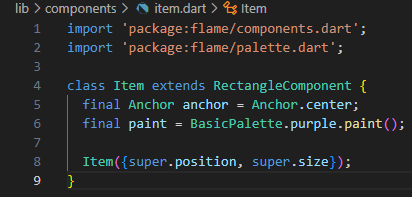
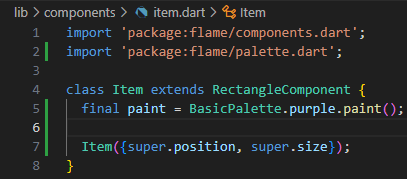
feat: update pictures and text for sprint 2 week 2 blog

diff --git a/pages/ppl-sprint2-week1.html b/pages/ppl-sprint2-week1.html
@@ -40,10 +40,10 @@
                 <li><b>Act:</b> mensimulasikan behavior yang diinginkan pada objek-objek</li>
                 <li><b>Assert:</b> memeriksa apakah behavior memberikan hasil atau efek yang sesuai ekspektasi</li>
             </ul>
-            <p>Dalam gambar di atas, tahap arrange dan act dilakukan pada baris 12 (karena test hanya mengecek kondisi awal), sedangkan tahap assert dilakukan pada baris 13-15 (biasanya dengan method expect atau serupa).</p>
+            <p>Dalam gambar di atas, tahap arrange dilakukan pada baris 12, tahap act dilakukan pada baris 13-14, sedangkan tahap assert dilakukan pada baris 15-18 (biasanya dengan method expect, query, dan lain-lain).</p>
             <h4>3. GREEN: Menulis kode untuk membuat test berhasil</h4>
             <p>Pada tahap ini kita membuat test yang sudah dibuat sebelumnya dari gagal menjadi berhasil alias berwarna hijau. Caranya adalah dengan membuat kode implementasi. Perlu diingat bahwa kita ingin membuat kode seminimal mungkin, sehingga kita tidak perlu berpikir terlalu jauh ke depan saat menulis kode. Yang penting adalah test berhasil terlebih dulu.</p>
-            <p>Sebagai contoh, untuk membuat test di atas berhasil, saya cukup menambahkan import, membuat class ItemContainer dan Item yang masih kosong, dan menambahkan objek sesuai jumlah yang diinginkan pada component game.</p>
+            <p>Sebagai contoh, untuk membuat test di atas berhasil, saya cukup menambahkan import, membuat class ItemContainer dan Item, dan menambahkan objek sesuai jumlah yang diinginkan pada component game.</p>
             <div class="text-center"><img src="../images/ppl-sprint2-week1-import.png"></div><br>
             <div class="text-center"><img src="../images/ppl-sprint2-week1-itemcontainer-bare.png"></div><br>
             <div class="text-center"><img src="../images/ppl-sprint2-week1-item-bare.png"></div><br>
@@ -52,15 +52,13 @@
             <div class="text-center"><img src="../images/ppl-sprint2-week1-test-green.png"></div><br>
             <h4>4. REFACTOR: Mengubah struktur kode dengan tetap menjaga (semua) test berhasil</h4>
             <p>Sekarang test sudah berhasil, namun tetap ada hal yang harus dipertimbangkan. Penambahan kode yang seadanya pada tahap sebelumnya bisa jadi menimbulkan code smell atau malah membuat test lainnya menjadi gagal. Ingat bahwa TDD adalah software design practice, sehingga refactoring perlu dilakukan untuk menjaga kualitas kode tetap baik setelah setiap penambahan test. Refactoring ini dapat berlaku untuk kode implementasi maupun testing.</p>
-            <p>Refactoring juga dapat dilakukan untuk alasan lain. Misalnya ketika saya menjalankan kode yang dibuat tadi, kotak dan objeknya tidak terlihat.</p>
-            <div class="text-center"><img src="../images/ppl-sprint2-week1-run-bare.png"></div><br>
-            <p>Ini tentu saja karena class ItemContainer dan Item masih kosong. Untuk menampilkan mereka, saya tambahkan atribut size, position, anchor, dan paint dengan parameter sembarang.</p>
+            <p>Refactoring juga dapat dilakukan untuk alasan lain. Misalnya ketika saya menjalankan kode yang dibuat tadi, kotak dan objeknya tidak terlihat. Ini tentu saja karena class ItemContainer dan Item masih kosong. Untuk menampilkan mereka, saya tambahkan atribut size, anchor, dan paint dengan parameter yang didapat melalui trial and error.</p>
             <div class="text-center"><img src="../images/ppl-sprint2-week1-itemcontainer-refactored.png"></div><br>
             <div class="text-center"><img src="../images/ppl-sprint2-week1-item-refactored.png"></div><br>
             <div class="text-center"><img src="../images/ppl-sprint2-week1-add-refactored.png"></div><br>
             <p>Sekarang sudah terlihat :D</p>
             <div class="text-center"><img src="../images/ppl-sprint2-week1-run-refactored.png"></div><br>
-            <p>Sampai bagian ini, masih ada banyak refactoring yang perlu saya lakukan, seperti: menampilkan gambar/sprite yang sesuai, mengatur letak gambar dan proporsinya terhadap layar, dan memindahkan mereka ke dalam component khusus game 2 (saat ini belum ada, sehingga diletakkan di flame game untuk sementara).</p>
+            <p>Sampai bagian ini, masih ada banyak refactoring yang perlu saya lakukan, seperti: menampilkan gambar/sprite yang sesuai, mengatur letak gambar dan proporsinya terhadap layar, dan mengatur susunan komponen dalam game 2 (saat ini world dan camera yang digunakan masih dari game 1).</p>
             <h4>5. Ulangi tahap 2-4 hingga daftar test habis</h4>
             <p>Cukup self-explanatory. Yang penting selalu ingat <b>RED-GREEN-REFACTOR</b>!</p>
             <hr>
